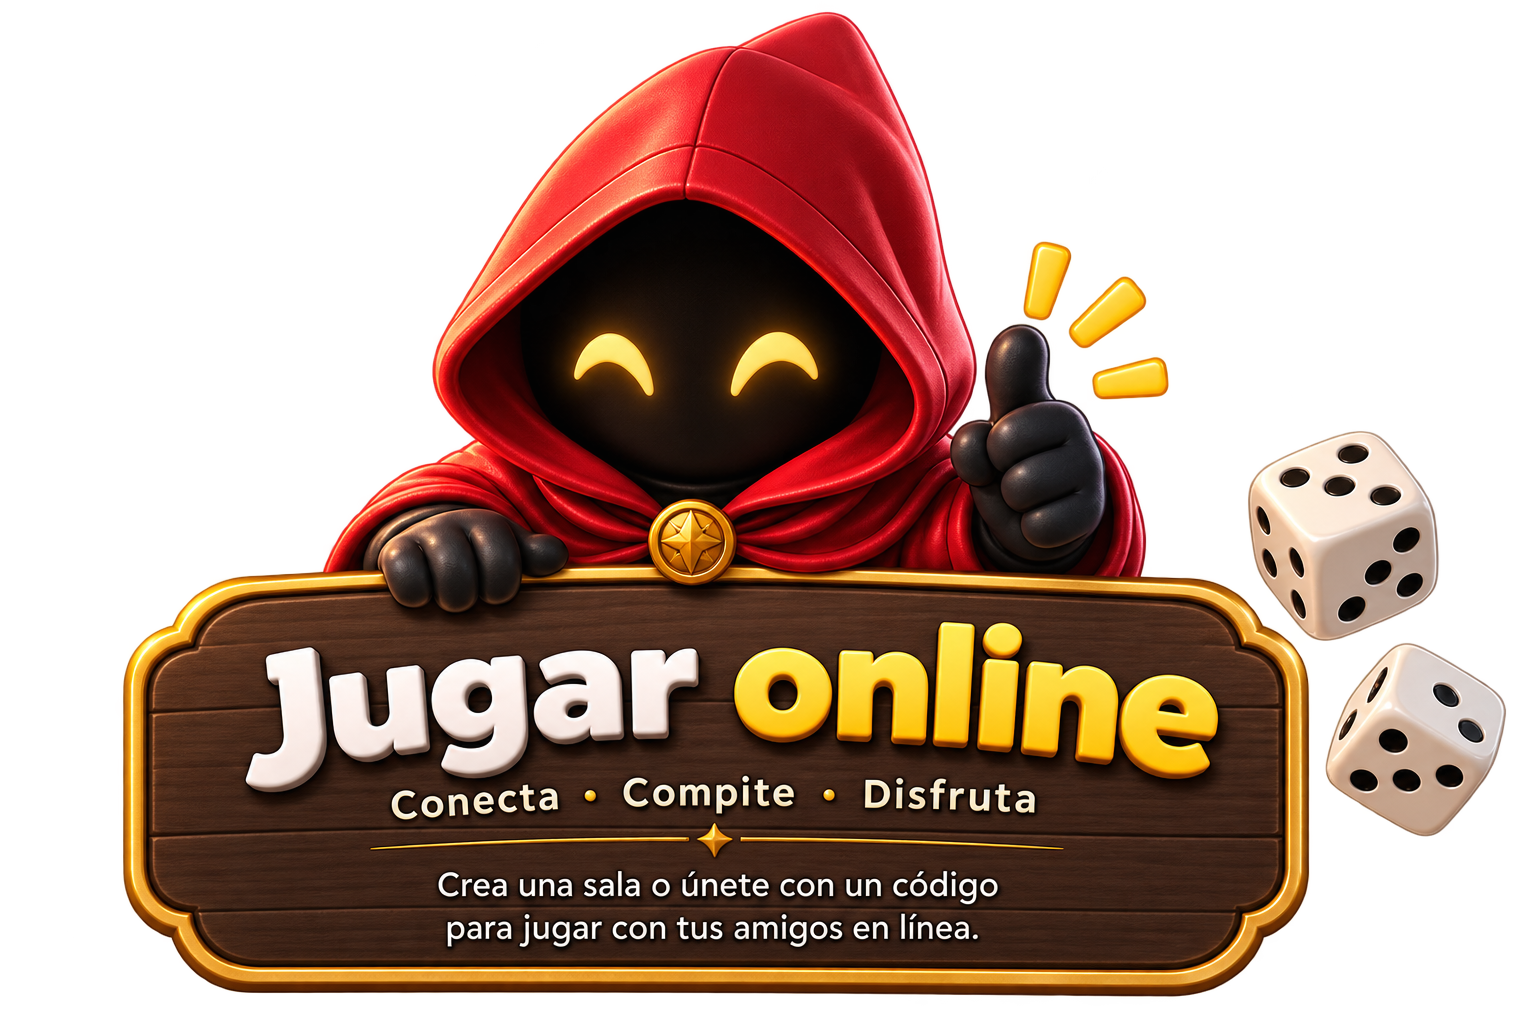
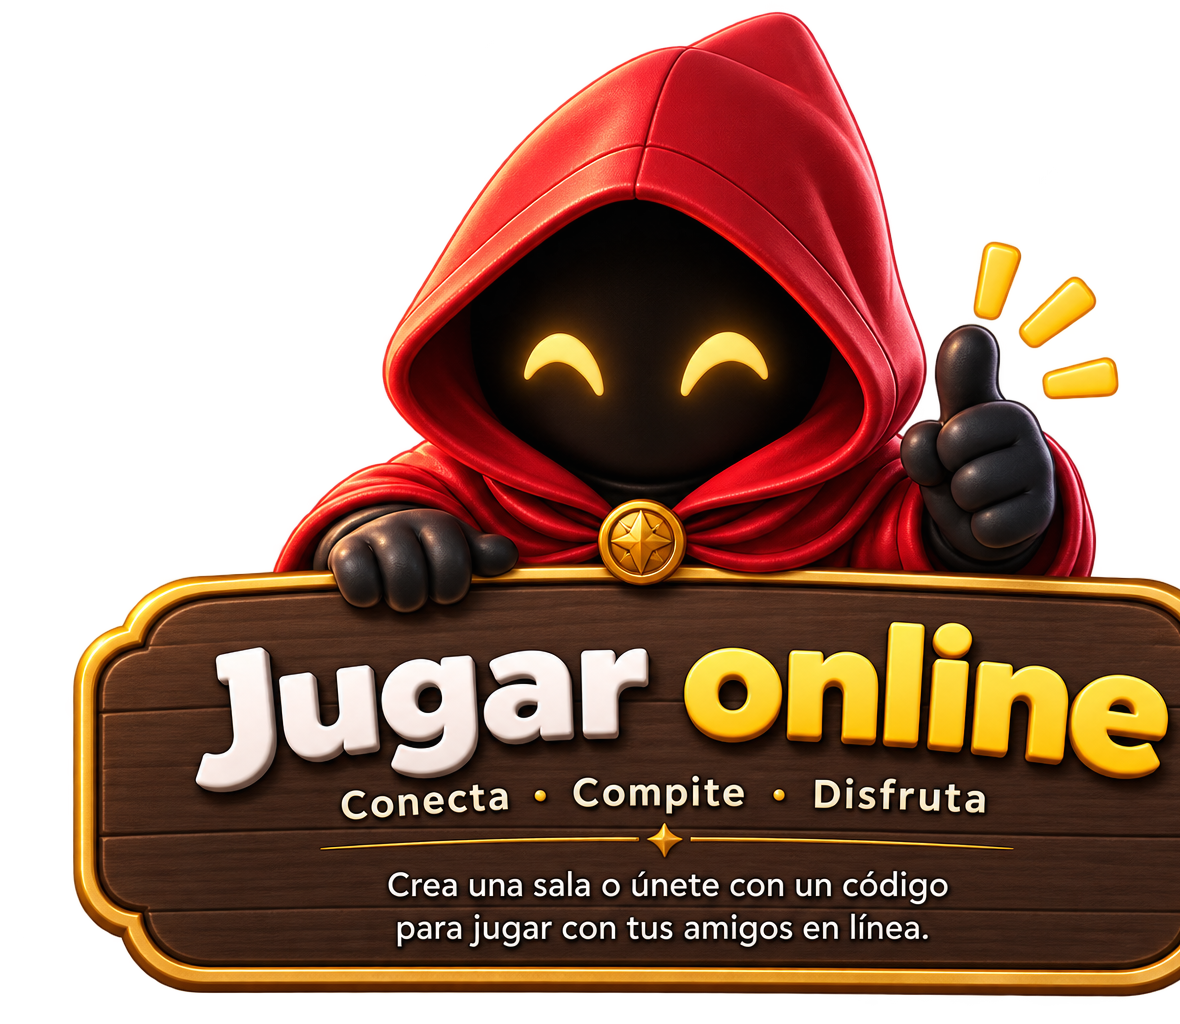
fix: shrink and recompose the online lobby mascot to match reference
Reported directly, with a reference image and a screenshot circling
the mascot: too big and unbalanced, use that format instead. Cropped
parkiller-mascot.png tighter around just the mascot+sign core (the
floating dice on the right and the dead black space around them are
gone), which brings the aspect ratio from 1.5:1 down to ~1.15:1 - at
the same display height, this alone renders noticeably narrower and
more compact, similar to the reference's tighter grouping. Also
lowered the display height clamp itself (220px max -> 165px) so it
reads smaller even at full scale, not just differently cropped.

Verified live at the reported window size and at a realistic desktop
size (much more compact, closer to the reference's proportions),
re-swept the same 13-size no-scroll check (a few already-fragile
extreme edge cases picked up single-digit-to-low-double-digit px
overflow, confirmed still visually fine, nothing cut off), and
confirmed the other phases/navigation still work.

diff --git a/src/ui/OnlineLobbyScreen.tsx b/src/ui/OnlineLobbyScreen.tsx
@@ -1119,11 +1119,18 @@ const menuCloseButtonStyle: React.CSSProperties = {
 // (see that hook's own doc comment) has a legibility floor it can't always fully make up on its
 // own - the vh term catches that case too, smoothly, matched below by menuCardStyle's own padding
 // so both continue shrinking in step rather than reintroducing the original per-element mismatch.
+//
+// Reported directly, with a reference image: too big and unbalanced, next to a screenshot circling
+// this image specifically. Two changes together - the image itself (parkiller-mascot.png) is now
+// cropped tighter around just the mascot+sign (the floating dice and the dead black space around
+// them are gone - see that file's own recent history), which alone makes the same display height
+// render narrower and more compact; the max height here is also lowered (220 -> 165) so it reads
+// smaller even at full scale, not just differently cropped.
 const menuMascotStyle: React.CSSProperties = {
   display: 'block',
   alignSelf: 'center',
   width: 'auto',
-  height: 'clamp(60px, min(22vw, 19vh), 220px)',
+  height: 'clamp(50px, min(17vw, 15vh), 165px)',
 }
 
 // Caveat (a handwritten-style Google Font, loaded in index.html for exactly this) for the
